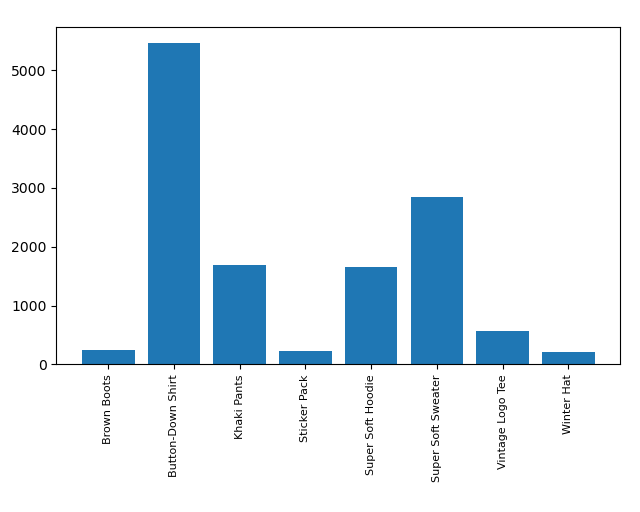
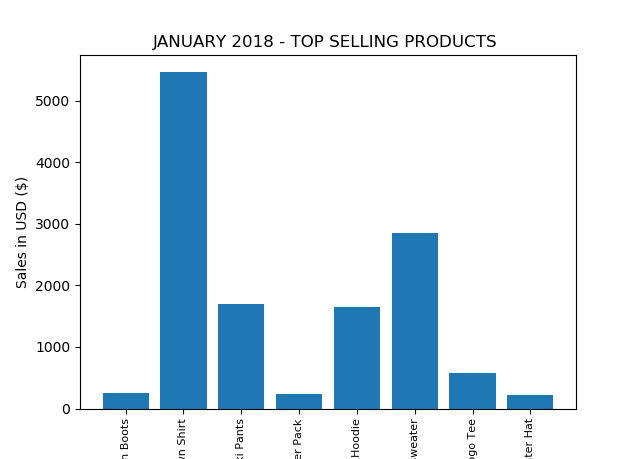
Bar chart update

diff --git a/dashboard_generator.py b/dashboard_generator.py
@@ -2,7 +2,8 @@
 import pandas as pd
 import os
 import matplotlib.pyplot as plt
-import numpy
+import numpy as np
+
 ## utility function to convert float or integer to usd-formatted string (for printing)
 def to_usd(my_price):
     return "${0:,.2f}".format(my_price)  # > $12,000.71
@@ -54,14 +55,30 @@ for d in top_sellers:
     print("  " + str(d["rank"]) + ") " + d["name"] +
           ": " + to_usd(d["monthly_sales"]))
 
-#plt.bar(reportsales["sales price"],reportsales.groupby(["product"]))        
+#BAR CHART 
 
-#months = range(1,13)
-#print(months)
 product_group = reportsales.groupby(["product"])
-quantity_ordered = product_group.sum()['sales price']
-#reportsales["sales price"].sum()
+quantity_ordered = product_group.sum()["sales price"]
 keys = [pair for pair, reportsales in product_group]
+plt.title("JANUARY 2018 TOP SELLING  PRODUCTS")
 plt.bar(keys, quantity_ordered)
+
+plt.ylabel("Sales in USD ($)")
+plt.xlabel("Products")
+for i in range(len(quantity_ordered)):
+    plt.annotate(str(quantity_ordered[i]), xy=(keys[i],quantity_ordered[i]))
+
 plt.xticks(keys, rotation='vertical', size=8)
 plt.show()
+
+#REFERENCE 2 : https://stackoverflow.com/questions/28931224/adding-value-labels-on-a-matplotlib-bar-chart
+#n = [1,2,3,4,5,]
+#s = [i**2 for i in n]
+#line = plt.bar(n,s)
+#plt.xlabel('Number')
+#plt.ylabel("Square")
+#for i in range(len(s)):
+# plt.annotate(str(s[i]), xy=(n[i],s[i]))
+#
+#plt.show()
+#

diff --git a/multi_month.py b/multi_month.py
@@ -47,3 +47,10 @@ for d in top_sellers:
 
 
 
+product_group = all_data.groupby(["product"])
+quantity_ordered = product_group.sum()['sales price']
+#reportsales["sales price"].sum()
+keys = [pair for pair, all_data in product_group]
+plt.bar(keys, quantity_ordered)
+plt.xticks(keys, rotation='vertical', size=8)
+plt.show()
